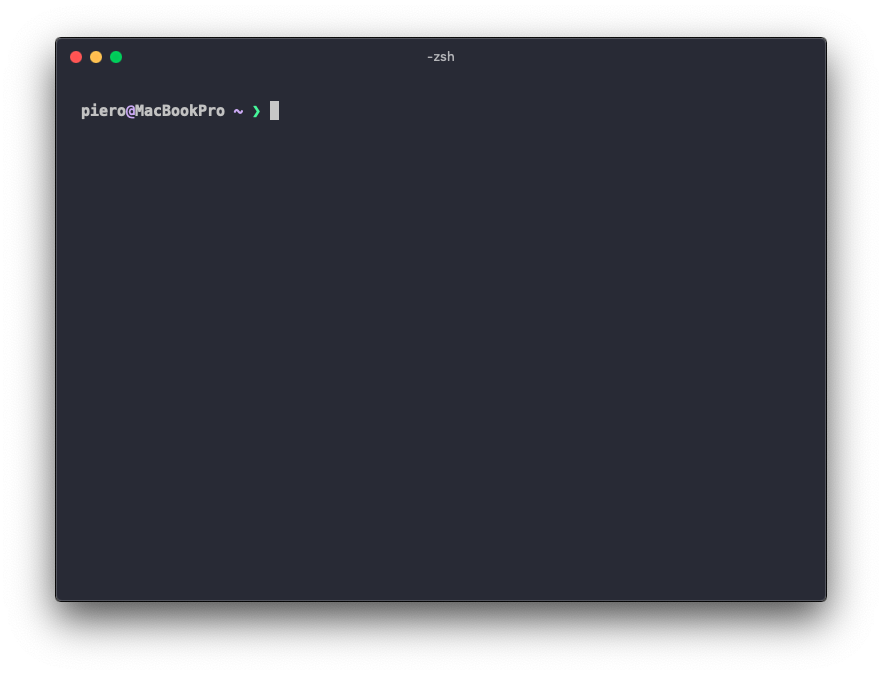
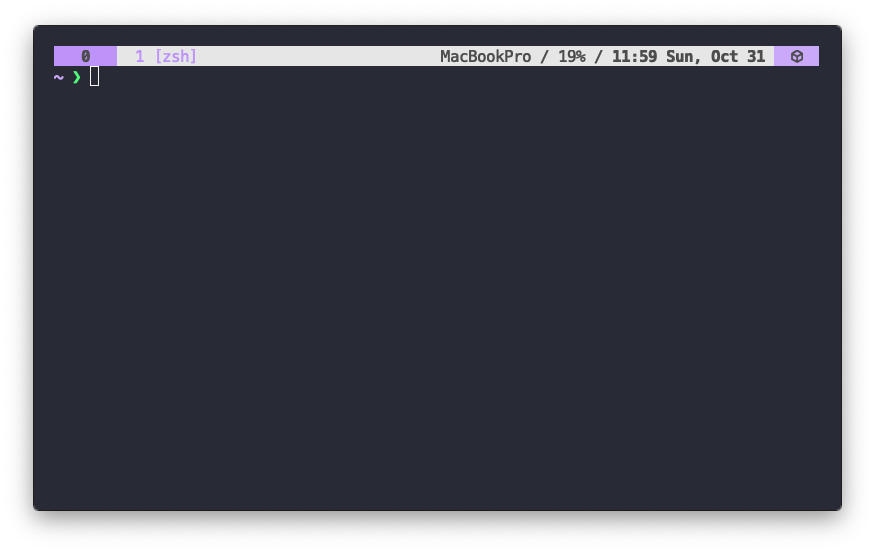
Edit tmux and startship config

Changed region(s): [[0.0309, 0.0308, 0.9874, 0.9547], [0.0926, 0.154, 0.3394, 0.1848]]

diff --git a/README.md b/README.md
@@ -1,7 +1,12 @@
 # `.dotfiles`
 
-These are my dotfiles.
+These are my dotfiles, a collection of my configuration files for macOS.
 
-I'm using zsh for the shell, [Alacritty](https://alacritty.org/) with the [Dracula theme](https://draculatheme.com/alacritty) for the terminal and [Starship](https://starship.rs/) for the prompt.
+## Tools I use
+- [alacritty](https://alacritty.org/) as my terminal emulator.
+- [micro](https://micro-editor.github.io/) as my
+- [starship](https://starship.rs/) for the prompt.
+- [tmux](https://github.com/tmux/tmux/wiki) for managing windows.
+- [zsh](https://www.zsh.org/) for the shell
 
 ![screenshot](resources/screenshot.png)
